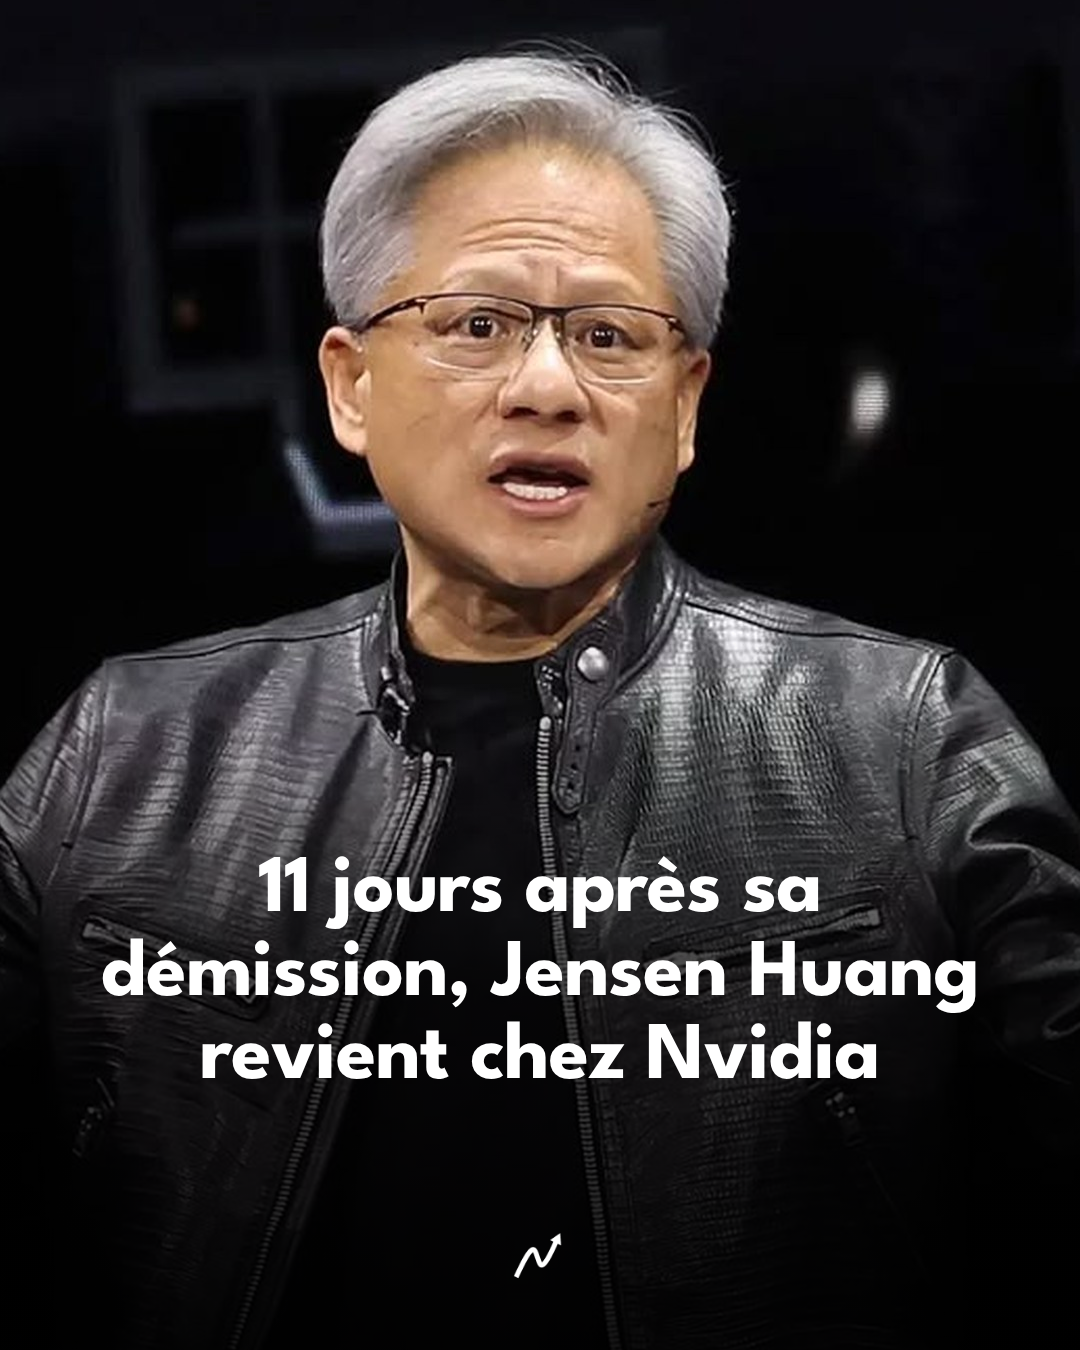
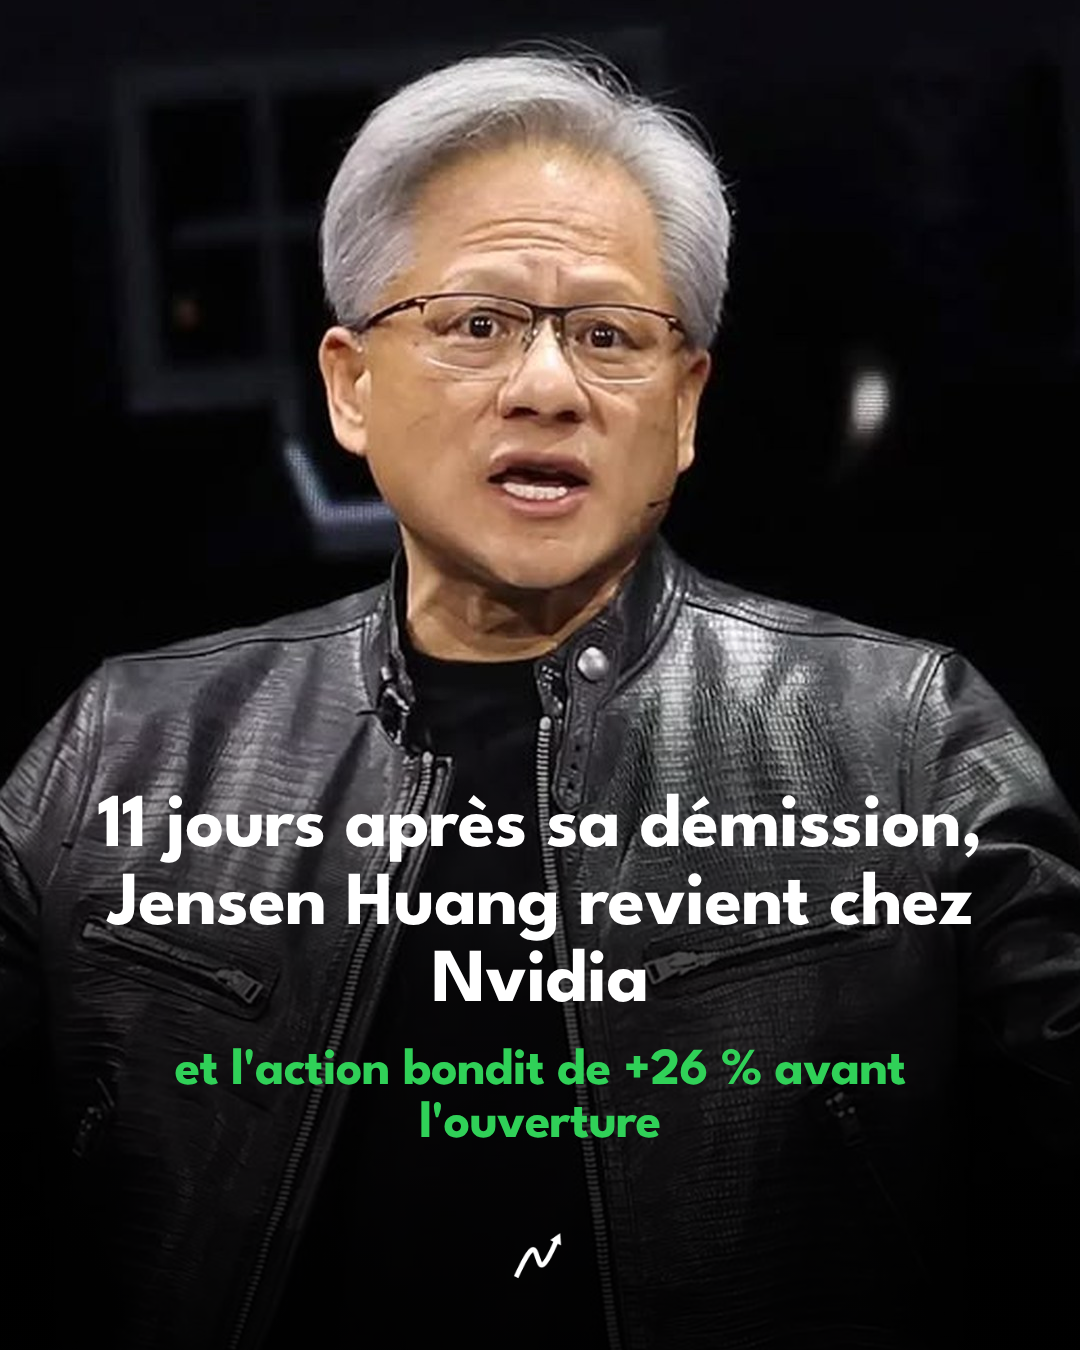
Carrousel Nvidia : « et l'action bondit de +26 % avant l'ouverture »
Claude-Session: https://claude.ai/code/session_0172khLHKtjafTGZdmNpPSJZ

Changed region(s): [[0.0917, 0.5911, 0.9167, 0.84]]

diff --git a/carrousel-nvidia-retour/carrousel.html b/carrousel-nvidia-retour/carrousel.html
@@ -29,7 +29,7 @@
 <section class="pg" id="p1" style="background:#000">
   <img src="assets/photos/jensen-scene.jpg" style="position:absolute; inset:0; width:1080px; height:1350px; object-fit:cover; object-position:50% 12%">
   <div style="position:absolute; left:0; right:0; bottom:0; height:720px; background:linear-gradient(180deg, rgba(0,0,0,0) 0%, rgba(0,0,0,.7) 45%, rgba(0,0,0,.92) 100%)"></div>
-  <div style="position:absolute; left:80px; right:80px; top:850px; text-align:center; font-family:'League Spartan'; font-weight:700; font-size:82px; line-height:1.02; letter-spacing:-.01em; color:#fff">11 jours après sa démission, Jensen Huang revient chez Nvidia</div>
+  <div style="position:absolute; left:80px; right:80px; top:790px; text-align:center; font-family:'League Spartan'; font-weight:700; font-size:76px; line-height:1.02; letter-spacing:-.01em; color:#fff">11 jours après sa démission, Jensen Huang revient chez Nvidia<div style="margin-top:22px; font-size:52px; color:#30d158">et l'action bondit de +26 % avant l'ouverture</div></div>
   <img src="assets/img/fd-fleche-blanche.png" style="position:absolute; left:495px; top:1210px; width:90px; height:90px">
 </section>
 
@@ -55,7 +55,7 @@
 <section class="pg" id="p4">
   <div class="txt" style="font-size:44px">
     <p>Sans lui, <b>l'action avait perdu 47 % depuis son record</b> du 6 octobre, dont 14 % le seul vendredi 20 novembre.</p>
-    <p><b>Ce matin, elle bondit d'environ 28 % avant l'ouverture.</b></p>
+    <p><b>Ce matin, elle bondit de 26 % avant l'ouverture.</b></p>
   </div>
   <div class="card vis" id="stock" style="height:640px; background:#1c1c1e"></div>
 </section>
@@ -105,7 +105,7 @@
     card.insertAdjacentHTML("beforeend",
       "<div style='position:absolute; left:34px; top:28px; display:flex; align-items:baseline; gap:18px'><span style='font-size:52px; font-weight:800; color:#fff; letter-spacing:-.02em'>NVDA</span><span style='font-size:30px; font-weight:500; color:#a1a1a6'>Nvidia</span></div>" +
       "<div style='position:absolute; left:34px; top:96px; font-size:22px; color:#a1a1a6'>Cours de l'action · Nasdaq · USD</div>" +
-      "<div style='position:absolute; right:34px; top:34px; text-align:right'><div style='font-size:30px; font-weight:700; color:#fff'>" + fr(pre, 2) + " $</div><div style='font-size:24px; font-weight:700; color:#30d158'>+" + fr((pre / last - 1) * 100, 1) + " % avant l'ouverture</div></div>");
+      "<div style='position:absolute; right:34px; top:34px; text-align:right'><div style='font-size:30px; font-weight:700; color:#30d158'>+26 %</div><div style='font-size:24px; font-weight:700; color:#30d158'>avant l'ouverture</div></div>");
     var g = document.createElementNS(NS, "svg"); g.setAttribute("width", 872); g.setAttribute("height", 640); g.style.left = "0"; g.style.top = "0"; card.appendChild(g);
     var x0 = 34, PW = 680, top = 170, H = 360, ymin = 100, ymax = 260, N = n + 6;
     var X = function (i) { return x0 + i / (N - 1) * PW; }, Y = function (v) { return top + H - (v - ymin) / (ymax - ymin) * H; };
